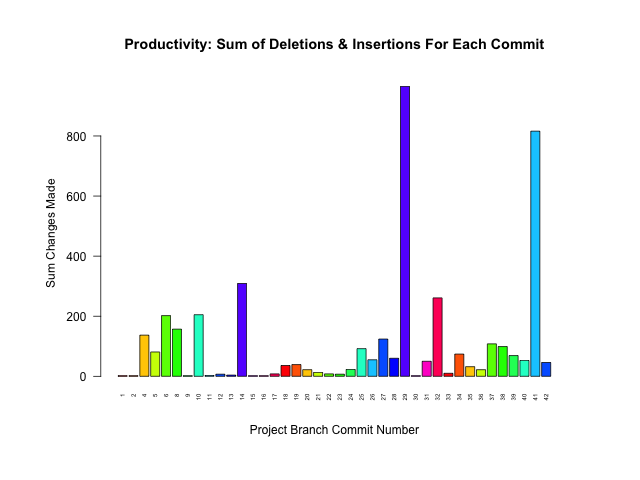
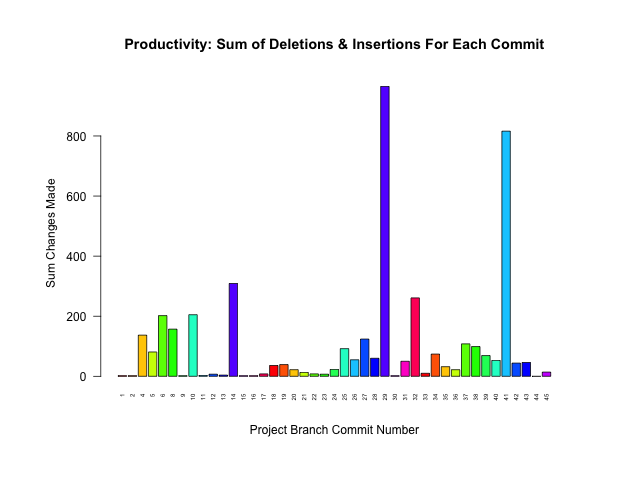
COMMIT #100

Changed region(s): [[0.1875, 0.1562, 0.875, 0.8438]]

diff --git a/README.md b/README.md
@@ -16,8 +16,8 @@ ProjectName::BranchName.data
 
 Project Name | Last Updated | Number of Commits
 :---|:---|:---
-commit_tracker_project                   |  2023-03-25  |  98
-FASTQ_examiner_project                   |  2023-03-25  |  42
+FASTQ_examiner_project                   |  2023-03-28  |  45
+commit_tracker_project                   |  2023-03-25  |  99
 minishell_project                        |  2023-02-03  |  67
 ft_printf_project                        |  2023-01-27  |  36
 test_non-fastforward_merge-push_project  |  2023-01-27  |  15
